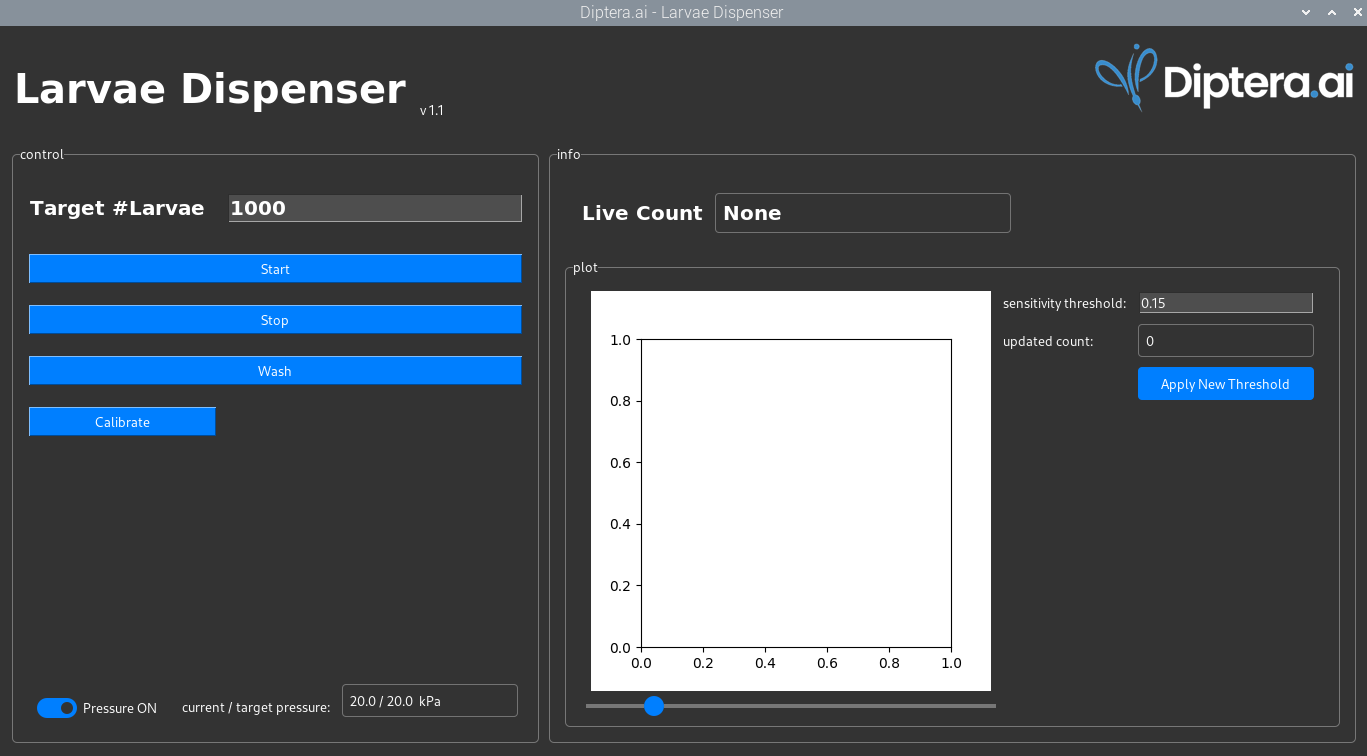
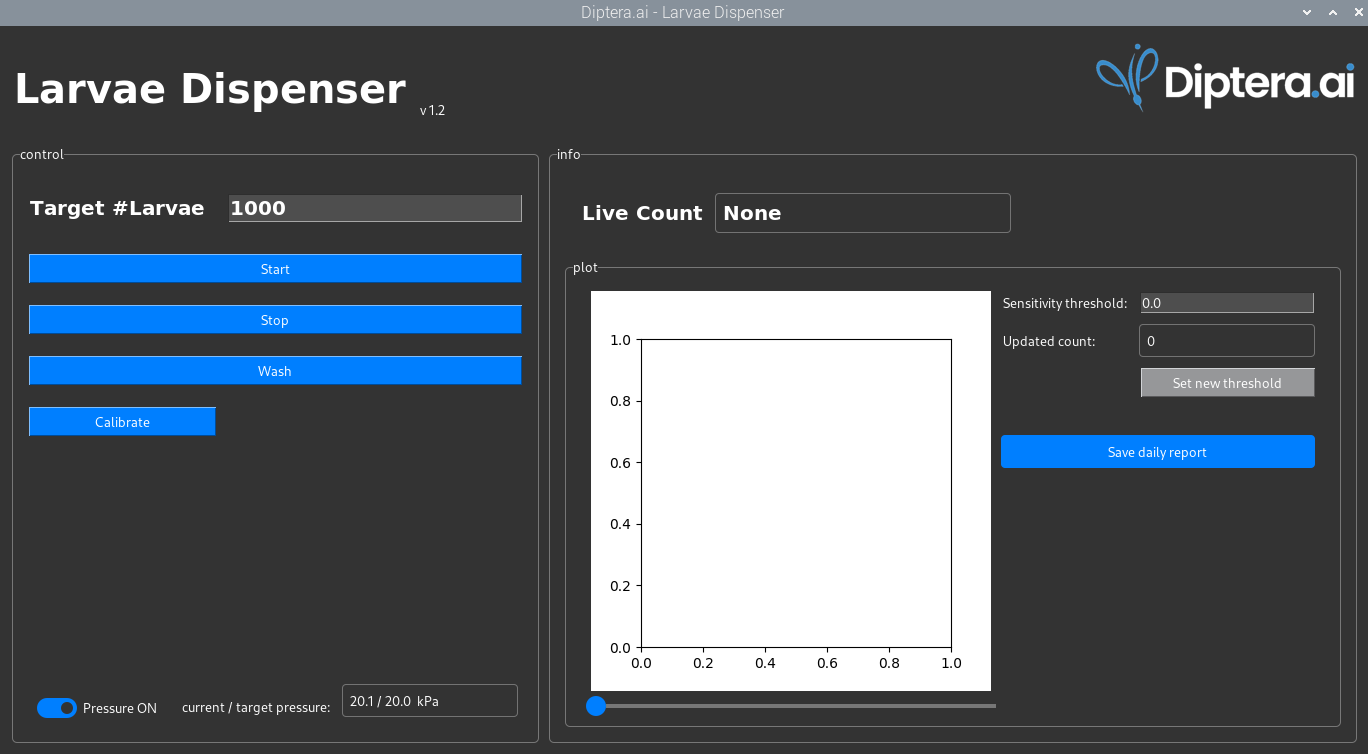
updated to v1.2

diff --git a/README.md b/README.md
@@ -80,7 +80,8 @@ For the most accurate results, make sure the sample, and the system itself, are 
    2. Connect the bottle to the system, make sure it is closed tightly.
    3. Place the larvae collecting cup.
    4. With the bottle and cup in place, open the LarvaeDispenser program (double-click the icon on the desktop).\
-   Upon start-up, the bottle will be pressurised and initial calibration will take place - the **calibration** button will show green while calibration is still ongoing. See screenshot below.\
+   Upon start-up, the program tries to update itself so try to make sure there is **internet connection**. 
+      Once up and running, the bottle will be pressurised and initial calibration will take place - the **calibration** button will show green while calibration is still ongoing. See screenshot below.\
    During the calibration, the system fills its tubes with water from the bottle. A small amount will be poured to the cup, remember to empty it before starting any count. 
    
    <br/>
@@ -95,6 +96,7 @@ For the most accurate results, make sure the sample, and the system itself, are 
 <a name="Aliquot"></a>
 ### 3. **Aliquot** 
    At This point the bottle should be in place, and pressurised, and the larvae collecting cup empty and ready too - as seen in the image above in the [machine overview](#Machine).
+
    1. Set the **Target #Larvae**.
    2. Press **Start**. The system will begin running larvae from the bottle to the cup and automatically stop when it reaches the target number of events detected. The **Start** button will show green while the system is running (i.e. counting), and the live count is updated simultaneously.\
       You may also press the **Stop** button at any time during the run, if need be. Note, this will stop the current run without option to resume it.
@@ -105,9 +107,9 @@ For the most accurate results, make sure the sample, and the system itself, are 
    <br>
    <br>
    
-   3. Once finished, the plot will be updated with a **histogram of the events' signal magnitudes**. A big larva will be detected as a high magnitude event, and vice versa - a small debris will show as a low magnitude event.\
+   3. Once finished, the plot will be updated with a **histogram of the events' signal magnitudes**. A big larva will be detected as a high magnitude event, and vice versa - small debris will show as low magnitude events.\
       The legend depicts different runs by their initiation timestamps.\
-   Below, for example, a screenshot of the program after two runs, the most recent one in blue.
+   Below, for example, a screenshot of the program after the first run.
    
    <br>
    <img src="docs/images/photos/gui/3_finished_count.png?raw=true" height="500" align="center" alt="">
@@ -115,20 +117,40 @@ For the most accurate results, make sure the sample, and the system itself, are 
    <br>
    <br>
    
-   4. Set the **sensitivity threshold**, and press **Apply New Threshold** to get a new reading of the total updated count. The higher the threshold, more events will be included in the count. Lowering the sensitivity threshold correctly allows you to remove from the count events that were probably caused by debris.
+   4. Set the **sensitivity threshold**, and press **Set new threshold** to get a new reading of the total updated count. 
+      The sensitivity threshold is 0.0 by default. This means that all events are counted as larvae. However, typically, larvae water contains a certain amount of small debris. This debris will show in the histogram as noise, or a (small) peak of the curve on the leftmost side of the histogram (because debris is usually smaller than the larvae). 
+      Examining the histogram and setting the sensitivity threshold to the first minima to the left of the significant curve, let's call it the debris-larvae minima, allows you to remove from the count events that were probably caused by debris.\
+      <br>
+      Using the horizontal scale below the plot, you may test new sensitivity thresholds (marked by a red vertical line) and see how applying it affects the count. 
+      In the example below, resetting the sensitivity threshold to *0.105* updated the count to 979. \
+      Pressing **Set new threshold** will apply the change and keep that threshold for later runs too (now the line appears black).
+      <br>
+      <br>
+      **This step is usually required after the first aliquot with a new bottle**: consecutive runs from the same bottle will most likely share the same sizes distribution and therefore the same debris-larvae minima.
+      <br>
       >
-      > **A good rule of thumb is to set the sensitivity threshold to the first minima to the left of the significant curve. This, basically, removes events caused by remaining debris.**
+      > **A new sensitivity threshold should be set after each bottle replacement. A good rule of thumb is to set the threshold to the first minima to the left of the significant curve. This, basically, removes events caused by debris.**
    
-      In the example below, resetting the threshold to *0.25* updated the count to 918. 
-   
+         
    <br>
-   <img src="docs/images/photos/gui/4_sensitivity_th_moved.png?raw=true" height="500" align="center" alt="">
-   <small>Setting a new sensitivity threshold to remove events probably caused by debris</small>
+   <img src="docs/images/photos/gui/4_sensitivity_th_moved_red.png?raw=true" height="500" align="center" alt="">
+   <small>Trying a new sensitivity threshold to remove events probably caused by debris</small>
    <br>
    <br>
-    
+   <img src="docs/images/photos/gui/4_sensitivity_th.png?raw=true" height="500" align="center" alt="">
+   <small>After pressing **Set new threshold**, the newly selected sensitivity threshold is applied and saved for future runs.</small>
+   <br>
+   <br>
 
-   5. Make sure the water level in the bottle does not go below the lower markings, as this will make the count inaccurate and may cause errors.\
+   5. Repeat: in a consecutive run from the same bottle, the count is updated according to the new sensitivity threshold (black vertical line).\
+   
+   <br>
+   <img src="docs/images/photos/gui/5_finished_second_count.png?raw=true" height="500" align="center" alt="">
+   <small>A consecutive run from the same bottle usually shares the same debris-larvae minima.</small>
+   <br>
+   <br>
+   
+   6. Make sure the water level in the bottle does not go below the lower markings, as this will make the count inaccurate and may cause errors.\
    If water level reaches the lower marking, add water to the bottle. 
    > **Do not open the bottle when the system is pressurised. See [here](#open-bottle).**
 
@@ -142,6 +164,9 @@ For the most accurate results, make sure the sample, and the system itself, are 
    3. Fill the bottle with clean water (or use the second clean water bottle with the blue connectors cap) and close it tightly.
    4. Place an empty collecting cup.
    5. Switch to **Pressure On** and press **Wash**. Repeat wash 3 times.
+   6. Pressing **Save daily report** will generate a csv file with the day's counts at the daily_reports directory on the desktop.
+   7. When you exit, the program will try to send system logs to Diptera.ai. Please make sure that you have internet connection.
+
 
 <br/>
 
@@ -153,7 +178,7 @@ For the most accurate results, make sure the sample, and the system itself, are 
 <a name="open-bottle"></a>
 - How to open the bottle when the system is pressurised?
    - Switch to **Pressure Off**.
-   - Wait 20 seconds or so for pressure to relieve.
+   - Wait 10 seconds or so for pressure to relieve.
    - Unscrew - just a little - the bottle cap (clear plastic).
    - Pop the connectors cap (black plastic).
    
